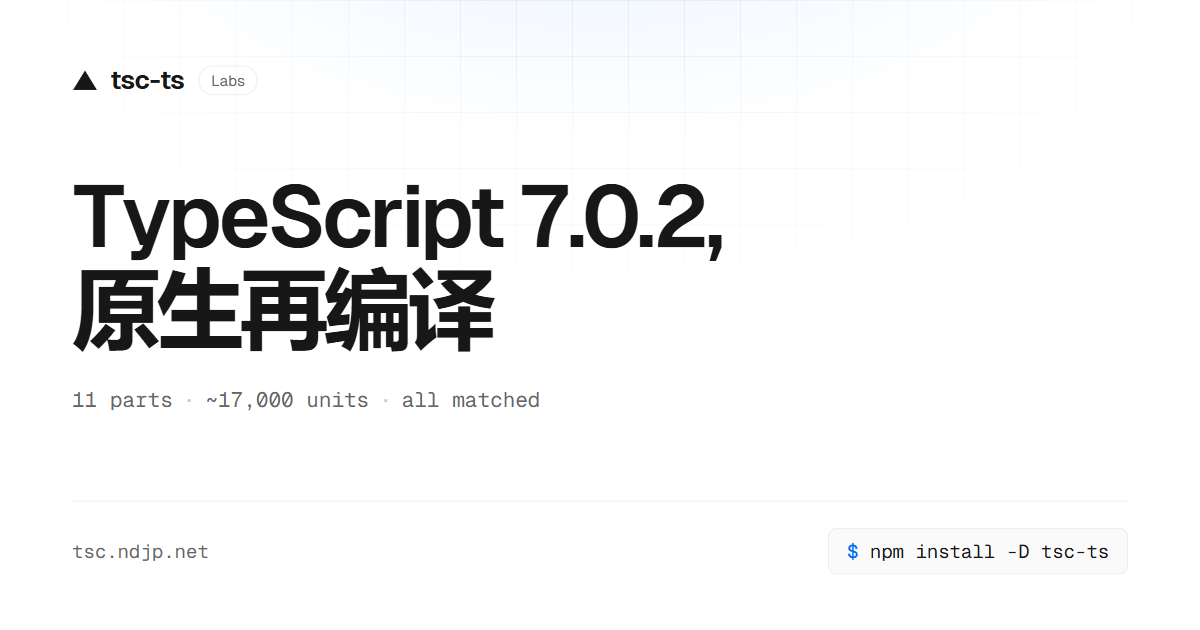
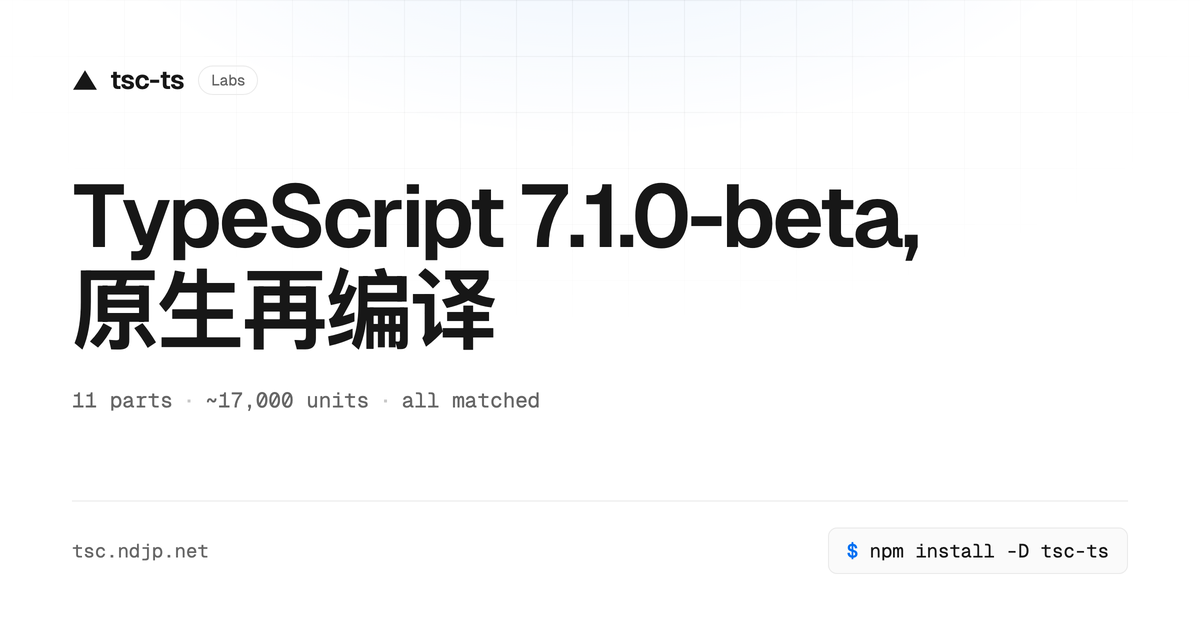
Sync upstream tsc-ts 0.1.5
0.1 系列已改跟 TypeScript 7.1.0-beta 并用 scriptc 0.4.8 构建，站点与 README 一并同步新的检查提速、共享检查、运行记录与 doctor、--listen API 服务等内容。

🤖 Generated with Codebuff

diff --git a/src/components/Features.tsx b/src/components/Features.tsx
@@ -20,8 +20,8 @@ const CARDS: Card[] = [
   {
     Icon: IconBolt,
     title: '原生速度',
-    desc: '由 scriptc 0.4.2 从 TypeScript-Go 源码编译为原生可执行文件，各平台通过 npm 可选依赖分发，无需额外运行时。',
-    mono: '@tsc-ts/win32-x64-msvc',
+    desc: '由 scriptc 0.4.8 与两阶段 profile 从 TypeScript-Go 源码编译为原生可执行文件，各平台通过 npm 可选依赖分发，无需额外运行时。',
+    mono: '@tsc-ts/linux-x64-gnu',
   },
   {
     Icon: IconCompare,
@@ -32,13 +32,13 @@ const CARDS: Card[] = [
   {
     Icon: IconBraces,
     title: 'API 与编程接口',
-    desc: '--api 与 tsc --api 7.0.2 逐条响应一致；tsc-ts/api 提供 createProgram、TypeChecker 等编程接口，Windows 上还支持命名管道。',
-    mono: 'tsc-ts/api · --pipe',
+    desc: '--api 跟随 TypeScript 7.1 的 API 协议：补全可直接补上项目与依赖里的自动导入，getImportAdderEdits 给出添加 import 的编辑；Windows 走命名管道，macOS 与 Linux 走 Unix socket。',
+    mono: 'tsc-ts/api · --listen',
   },
   {
     Icon: IconLayers,
     title: '增量构建',
-    desc: '支持 --build、--incremental 与 --watch；复合项目的重建也跑在检查线程上，.tsbuildinfo 输出与 tsgo 的所有场景一致。',
+    desc: '支持 --build、--incremental 与 --watch；监视模式的首个构建在解析线程上加载程序，.tsbuildinfo 输出与 tsgo 的所有场景一致。',
     mono: 'npx tsc-ts -b --incremental',
   },
   {
@@ -49,9 +49,9 @@ const CARDS: Card[] = [
   },
   {
     Icon: IconCpu,
-    title: '多线程检查',
-    desc: '--checkers N 在 N 个线程上检查，按可用内存自动选择线程数（最多 16 个）；诊断结果与单线程完全一致。',
-    mono: '--checkers 16',
+    title: '多线程与自动调优',
+    desc: '--checkers N 在 N 个线程上检查；每个项目的运行记录写入 ~/.cache/tsc-ts/runs-v1/，后续运行据此挑更快的配置，tsc-ts doctor 还会实测并给出建议。',
+    mono: '--checkers 16 · doctor',
   },
 ]
 

diff --git a/src/components/Release.tsx b/src/components/Release.tsx
@@ -3,19 +3,19 @@ import { IconArrowRight } from './icons'
 
 const ITEMS = [
   {
-    metric: '9.2–11.1%',
+    metric: '1.16–1.21×',
     title: '类型检查提速',
-    desc: '相比 0.0.7；16 个检查线程时为 6.8–15.3%，输出完全一致。',
+    desc: '0.1.0 对比 0.0.10：五个基准项目在 --checkers 1 下快 1.16–1.21 倍（VS Code 33.2 s → 28.6 s），16 线程下快 1.08–1.19 倍。',
   },
   {
-    metric: '18–22%',
-    title: '峰值内存下降',
-    desc: '单检查线程下的峰值 RSS 降幅；16 线程时为 15–22%。',
+    metric: '27%',
+    title: '共享检查（实验）',
+    desc: 'TSC_TS_SHARE=1 时检查线程共享已算出的类型，T3 服务端项目在 16 检查器下快 27%，诊断与单线程一致。',
   },
   {
-    metric: '--pipe',
-    title: 'Windows 命名管道',
-    desc: '--api --pipe 提供与 tsc --api --pipe 相同的服务，仅运行服务的用户可打开该管道。',
+    metric: 'doctor',
+    title: '运行记录与自动调优',
+    desc: '每个项目把运行配置与阶段耗时写入 ~/.cache/tsc-ts/runs-v1/，后续运行据此采用更快的配置；tsc-ts doctor 实测后给出建议。',
   },
 ]
 
@@ -24,10 +24,10 @@ export default function Release() {
     <section id="releases" className="releases">
       <div className="release-inner">
         <div className="release-head rv">
-          <h2>0.0.8，更快也更省内存</h2>
+          <h2>0.1.5，跟随 TypeScript 7.1.0-beta</h2>
           <p>
-            10 月 23 日发布：由 scriptc 0.4.2 构建，类型检查更快、峰值内存更低，
-            Windows 上新增命名管道 API。
+            11 月 11 日发布：0.1 系列重新移植到 TypeScript 7.1.0-beta，由 scriptc 0.4.8
+            构建，检查更快，并加入共享检查、运行记录与自动调优，以及 Unix socket 上的 --api 服务。
           </p>
           <a
             className="release-link"

diff --git a/index.html b/index.html
@@ -3,13 +3,13 @@
   <head>
     <meta charset="UTF-8" />
     <meta name="viewport" content="width=device-width, initial-scale=1.0" />
-    <meta name="description" content="tsc-ts：TypeScript 7.0.2 编译器（TypeScript-Go）的原生代码移植，由 scriptc 编译为原生可执行文件。约 17,000 个测试单元与 tsgo 逐项匹配。" />
+    <meta name="description" content="tsc-ts：TypeScript 7.1.0-beta 编译器（TypeScript-Go）的原生代码移植，由 scriptc 编译为原生可执行文件。约 17,000 个测试单元与 tsgo 逐项匹配。" />
     <link rel="icon" type="image/svg+xml" href="/favicon.svg" />
     <meta name="theme-color" content="#ffffff" media="(prefers-color-scheme: light)" />
     <meta name="theme-color" content="#0a0a0a" media="(prefers-color-scheme: dark)" />
     <meta property="og:type" content="website" />
     <meta property="og:site_name" content="tsc-ts" />
-    <meta property="og:title" content="tsc-ts — TypeScript 7.0.2 原生移植" />
+    <meta property="og:title" content="tsc-ts — TypeScript 7.1.0-beta 原生移植" />
     <meta property="og:description" content="TypeScript-Go（tsgo）的实验性原生移植，由 scriptc 编译为原生可执行文件。约 17,000 个测试单元与 tsgo 逐项匹配。" />
     <meta property="og:url" content="https://tsc.ndjp.net/" />
     <meta property="og:locale" content="zh_CN" />
@@ -17,7 +17,7 @@
     <meta property="og:image:width" content="1200" />
     <meta property="og:image:height" content="630" />
     <meta name="twitter:card" content="summary_large_image" />
-    <title>tsc-ts — TypeScript 7.0.2 原生移植</title>
+    <title>tsc-ts — TypeScript 7.1.0-beta 原生移植</title>
   </head>
   <body>
     <div id="root"></div>

diff --git a/src/components/Hero.tsx b/src/components/Hero.tsx
@@ -50,18 +50,18 @@ export default function Hero() {
         >
           <IconTriangle size={11} />
           Vercel Labs · 实验项目
-          <span className="badge-ver">v0.0.8</span>
+          <span className="badge-ver">v0.1.5</span>
           <IconArrowRight size={12} className="badge-arrow" />
         </a>
         <h1 className="hero-title rv" style={{ '--d': '70ms' } as CSSVars}>
-          TypeScript 7.0.2，
+          TypeScript 7.1.0-beta，
           <br />
           原生再编译
         </h1>
         <p className="hero-sub rv" style={{ '--d': '140ms' } as CSSVars}>
-          tsc-ts 是 TypeScript-Go（tsgo）的实验性原生移植，由 scriptc
-          编译为原生可执行文件。编译器的每一部分都在官方测试语料上与 tsgo
-          逐项对比，全部匹配。
+          tsc-ts 是 TypeScript 7.1.0-beta（TypeScript-Go，tsgo）的实验性原生移植，
+          由 scriptc 0.4.8 编译为原生可执行文件。编译器的每一部分都在官方测试语料上与
+          tsgo 逐项对比，全部匹配。
         </p>
         <div className="hero-actions rv" style={{ '--d': '210ms' } as CSSVars}>
           <button type="button" className="btn btn-primary" onClick={copy}>
@@ -115,7 +115,7 @@ export default function Hero() {
             {cmd}
             <span className="caret" aria-hidden="true" />
             {'\n'}
-            <span className="dim">+ tsc-ts 0.0.8 · added 3 packages · 原生二进制随平台可选依赖安装</span>
+            <span className="dim">+ tsc-ts 0.1.5 · added 3 packages · 原生二进制随平台可选依赖安装</span>
           </pre>
         </div>
       </div>

diff --git a/og/template.html b/og/template.html
@@ -122,7 +122,7 @@
         tsc-ts
         <span class="tag">Labs</span>
       </div>
-      <div class="title">TypeScript 7.0.2，<br />原生再编译</div>
+      <div class="title">TypeScript 7.1.0-beta，<br />原生再编译</div>
       <div class="meta">11 parts<span class="sep">·</span>~17,000 units<span class="sep">·</span>all matched</div>
       <div class="bottom">
         <span class="where">tsc.ndjp.net</span>

diff --git a/src/components/Stages.tsx b/src/components/Stages.tsx
@@ -5,7 +5,7 @@ const STEPS = [
   {
     head: '安装',
     call: 'npm install -D tsc-ts',
-    resp: '+ tsc-ts 0.0.8 · added 3 packages in 3s',
+    resp: '+ tsc-ts 0.1.5 · added 3 packages in 3s',
   },
   {
     head: '编译',
